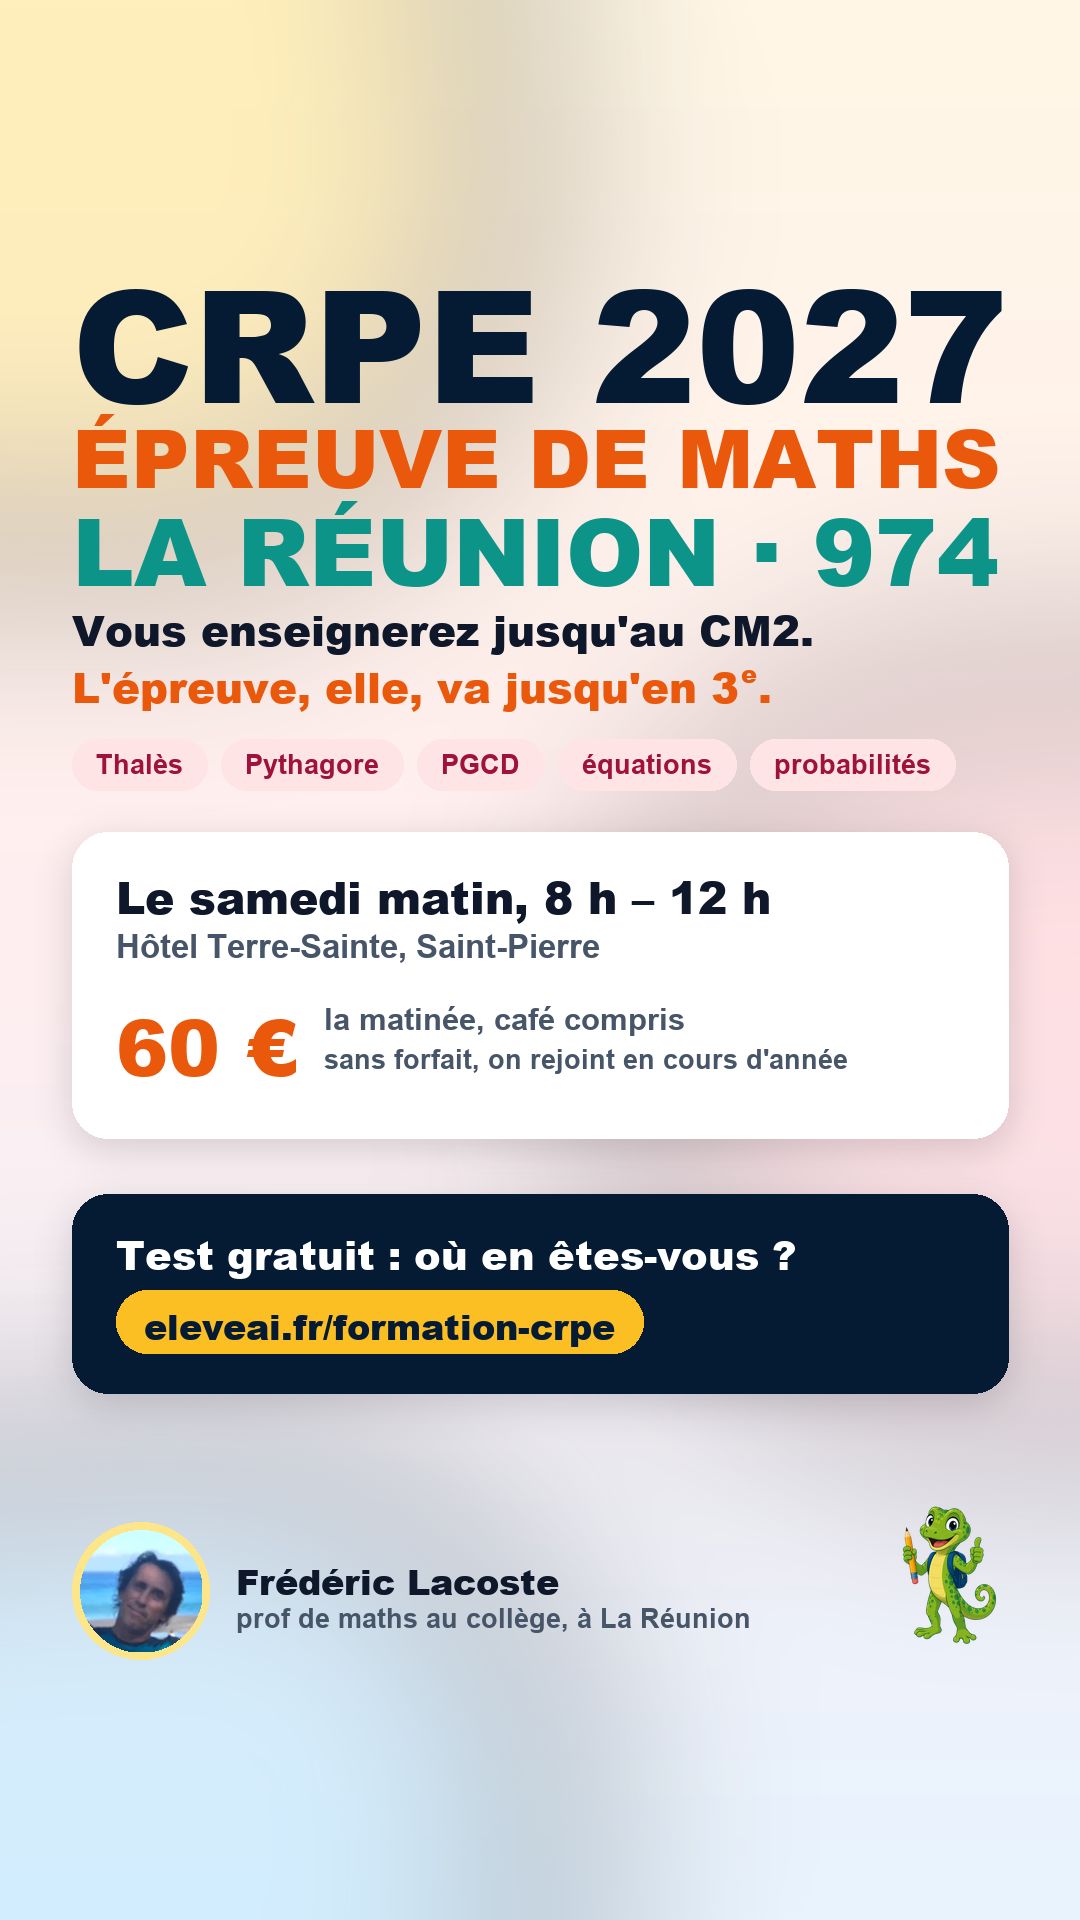
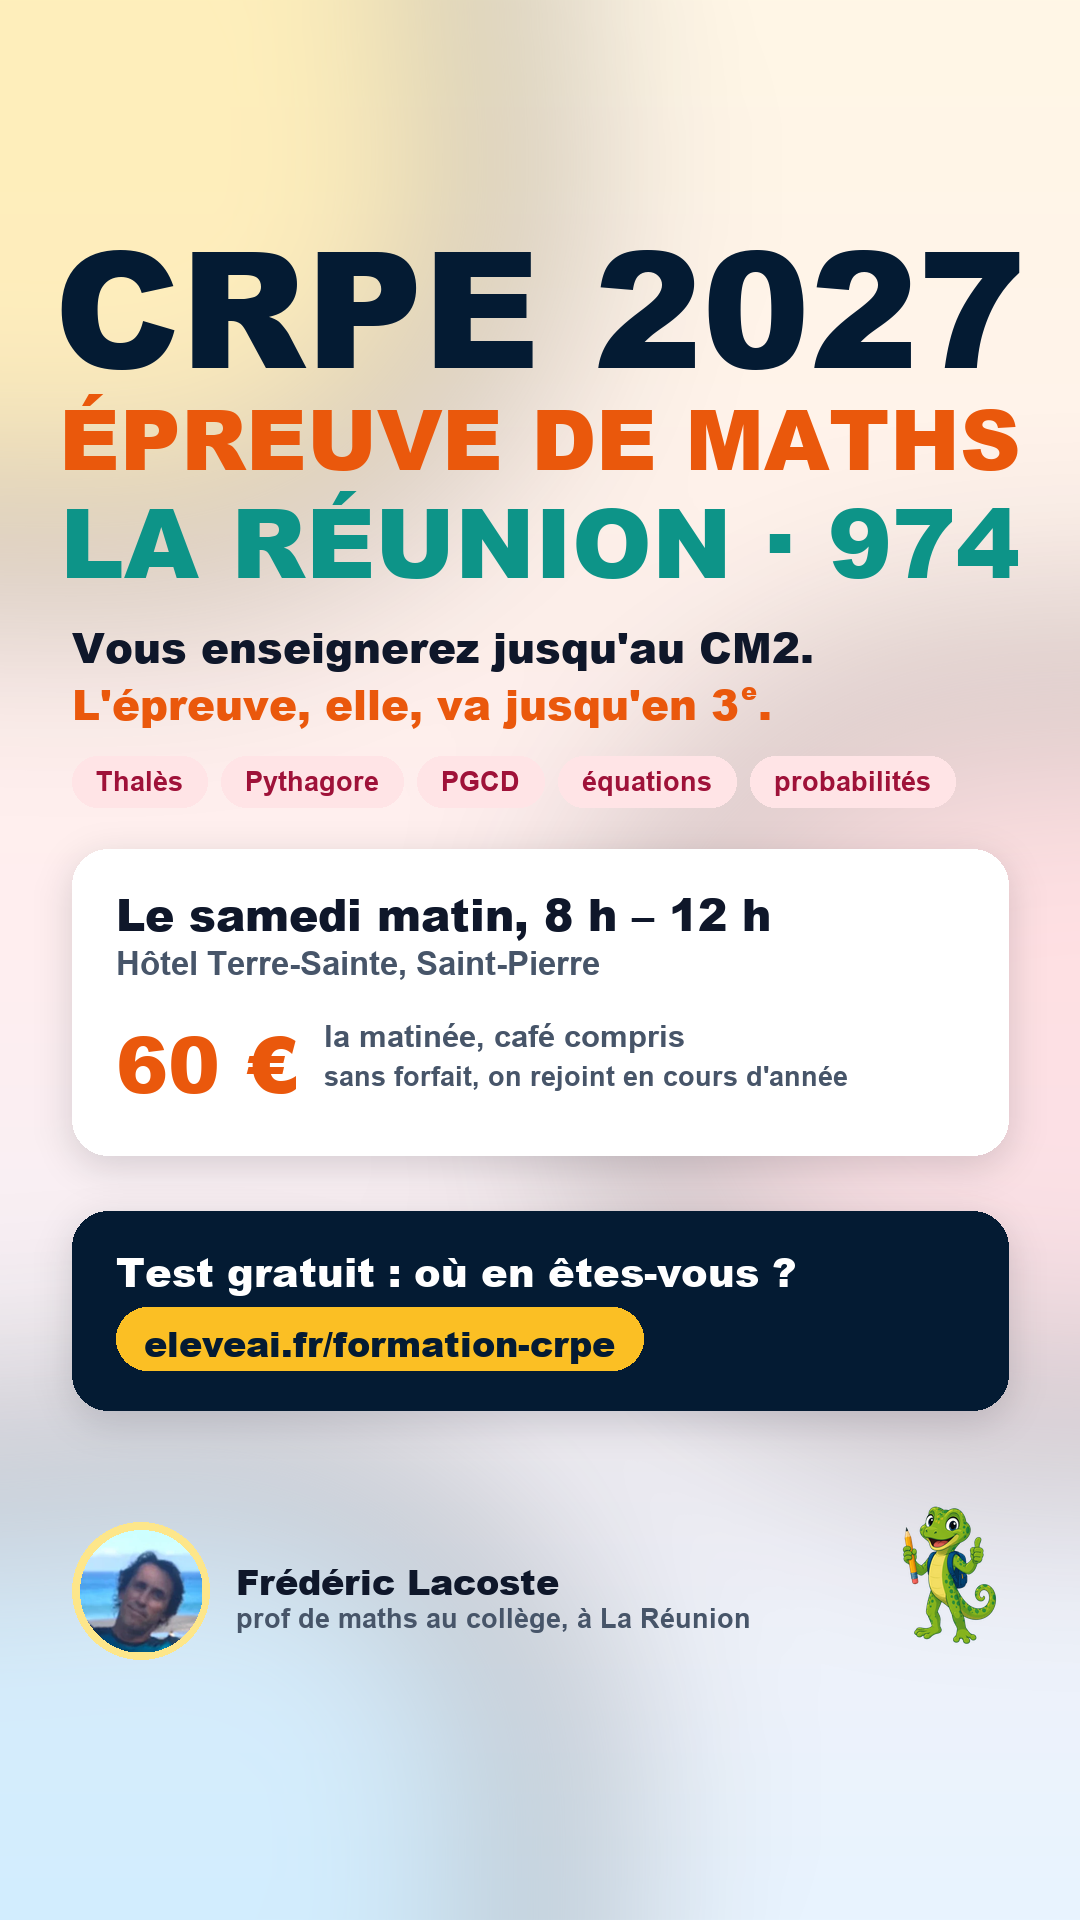
Pub Instagram CRPE : le titre prend 90 % de la largeur, centre

Changed region(s): [[0.0611, 0.125, 0.9472, 0.75], [0.9167, 0.5625, 0.9472, 0.5938]]

diff --git a/scripts/pub-crpe-instagram.py b/scripts/pub-crpe-instagram.py
@@ -112,21 +112,26 @@ def composer(h):
     # (Frédéric, 15/10 : « mets le plus gros »). C'est ce qu'on lit en un quart
     # de seconde en faisant défiler : le concours, la matière, l'île. Chaque
     # ligne prend toute la largeur utile.
-    def ajuste(texte, maxi):
-        t = maxi
-        while largeur(d, texte, NOIR(t)) > W - 2 * marge:
-            t -= 2
-        return NOIR(t)
+    # ⭐ Puis « toute la 90 % de la largeur » : chaque ligne est agrandie
+    # jusqu'à faire 90 % de l'image, et centrée — au pixel près, mesuré sur
+    # l'encre réelle (textbbox), pas sur l'avance typographique.
+    cible = int(W * 0.9)
 
-    f1 = ajuste("CRPE 2027", k(190))
-    d.text((marge, y - f1.size * 0.12), "CRPE 2027", font=f1, fill=NAVY)
-    y += int(f1.size * 0.95)
-    f2 = ajuste("ÉPREUVE DE MATHS", k(120))
-    d.text((marge, y), "ÉPREUVE DE MATHS", font=f2, fill=ORANGE)
-    y += int(f2.size * 1.05)
-    f3 = ajuste("LA RÉUNION · 974", k(120))
-    d.text((marge, y), "LA RÉUNION · 974", font=f3, fill=(13, 148, 136))
-    y += int(f3.size * 1.25)
+    def ligne(texte, couleur, y):
+        t = 40
+        while True:
+            b = d.textbbox((0, 0), texte, font=NOIR(t + 2))
+            if b[2] - b[0] > cible:
+                break
+            t += 2
+        f = NOIR(t)
+        b = d.textbbox((0, 0), texte, font=f)
+        d.text(((W - (b[2] - b[0])) / 2 - b[0], y - b[1]), texte, font=f, fill=couleur)
+        return y + (b[3] - b[1])
+
+    y = ligne("CRPE 2027", NAVY, y) + k(26)
+    y = ligne("ÉPREUVE DE MATHS", ORANGE, y) + k(22)
+    y = ligne("LA RÉUNION · 974", (13, 148, 136), y) + k(40)
 
     # ── L'accroche, désormais en second
     d.text((marge, y), "Vous enseignerez jusqu'au CM2.", font=NOIR(k(46)), fill=ENCRE)
